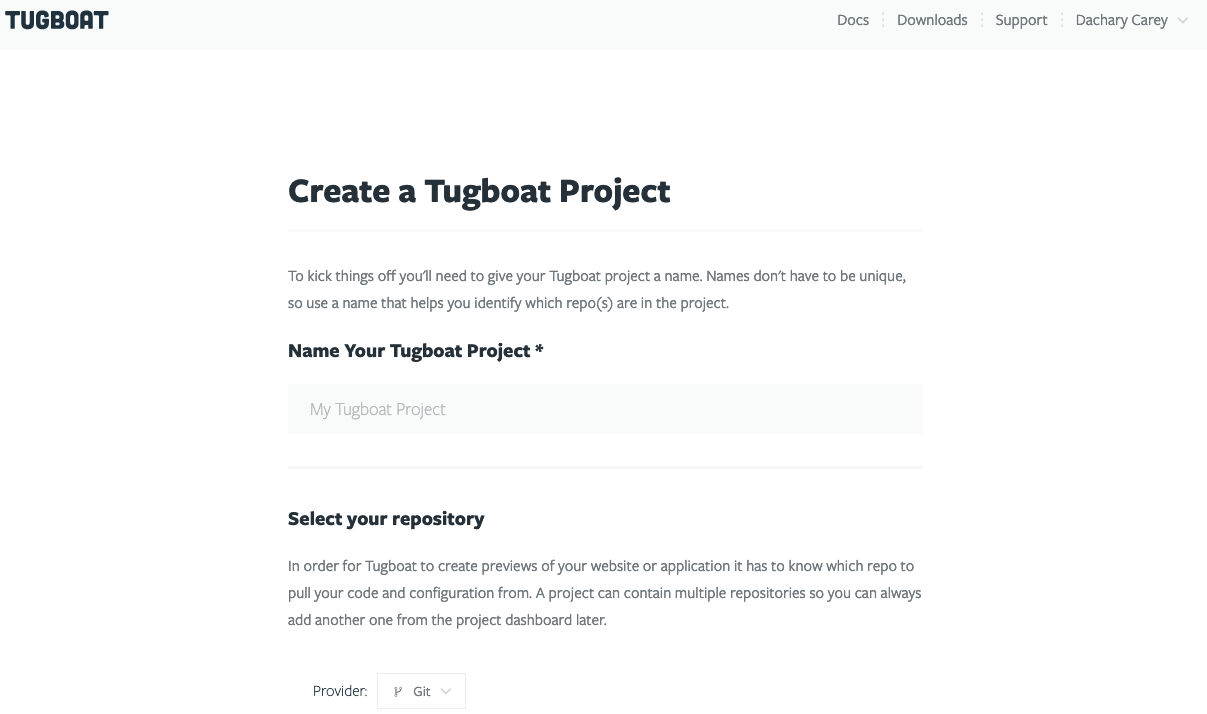
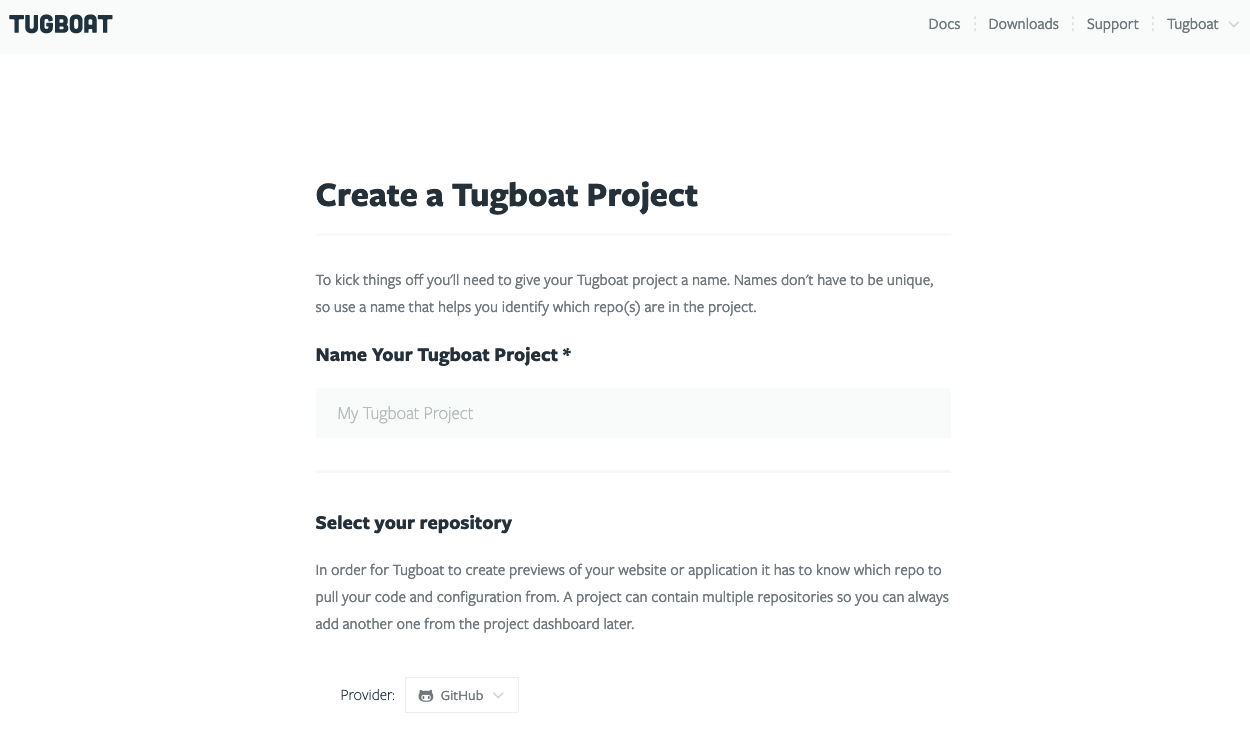
Add Tugboat-branded screens

diff --git a/setting-up-tugboat/index.md b/setting-up-tugboat/index.md
@@ -312,7 +312,7 @@ next to the repo you want to add.
 Alternately, if you're using a generic git server, select Git as the provider,
 and enter your repo name and Git URL.
 
-![Specify generic git server](../_images/add-repos-to-project-select-generic-git-provider.png)
+![Specify generic git server](../_images/add-repos-to-project-generic-git-provider.png)
 
 If you want to add repos to a project you've already created:
 
